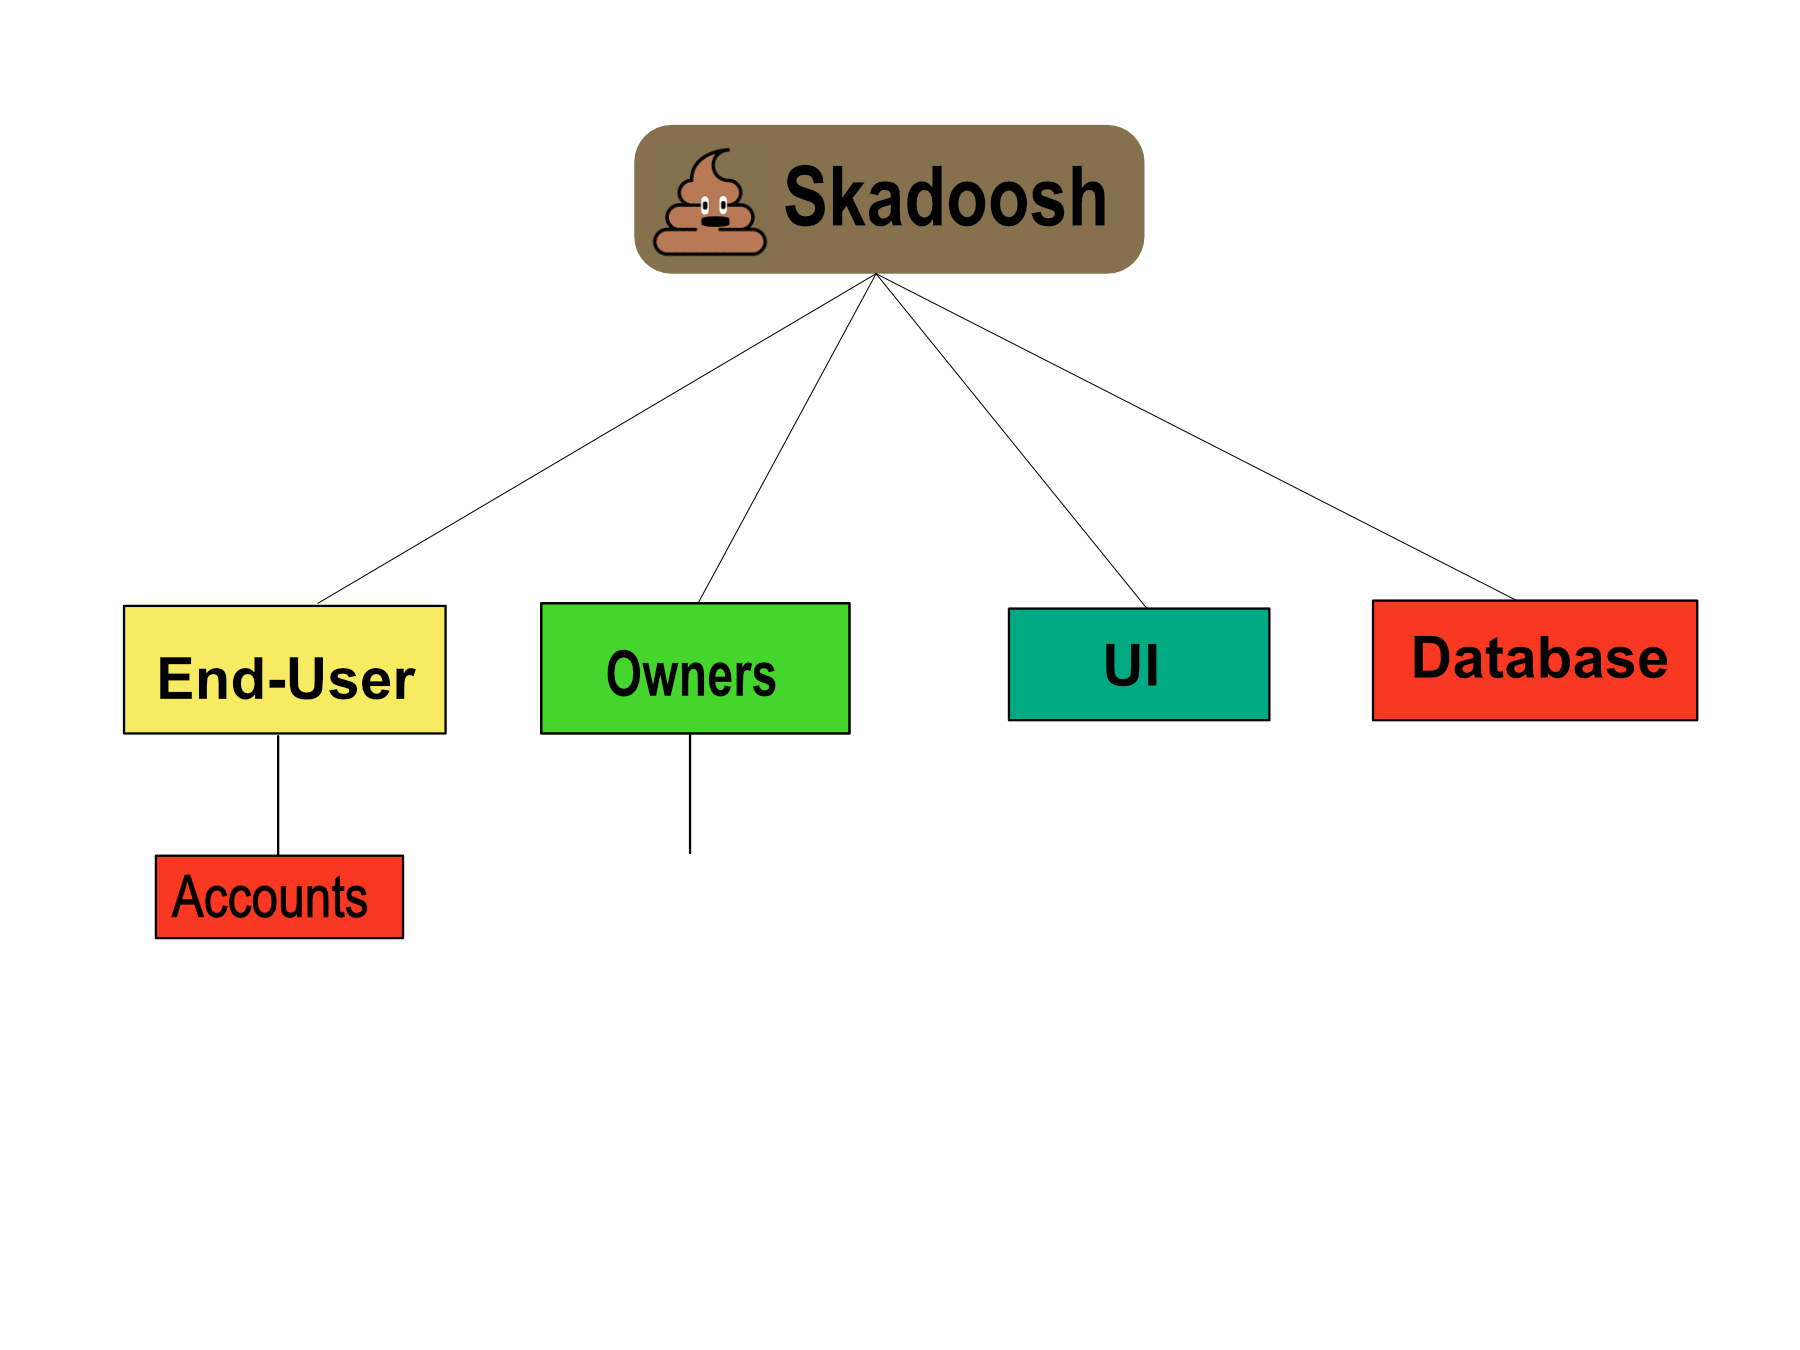
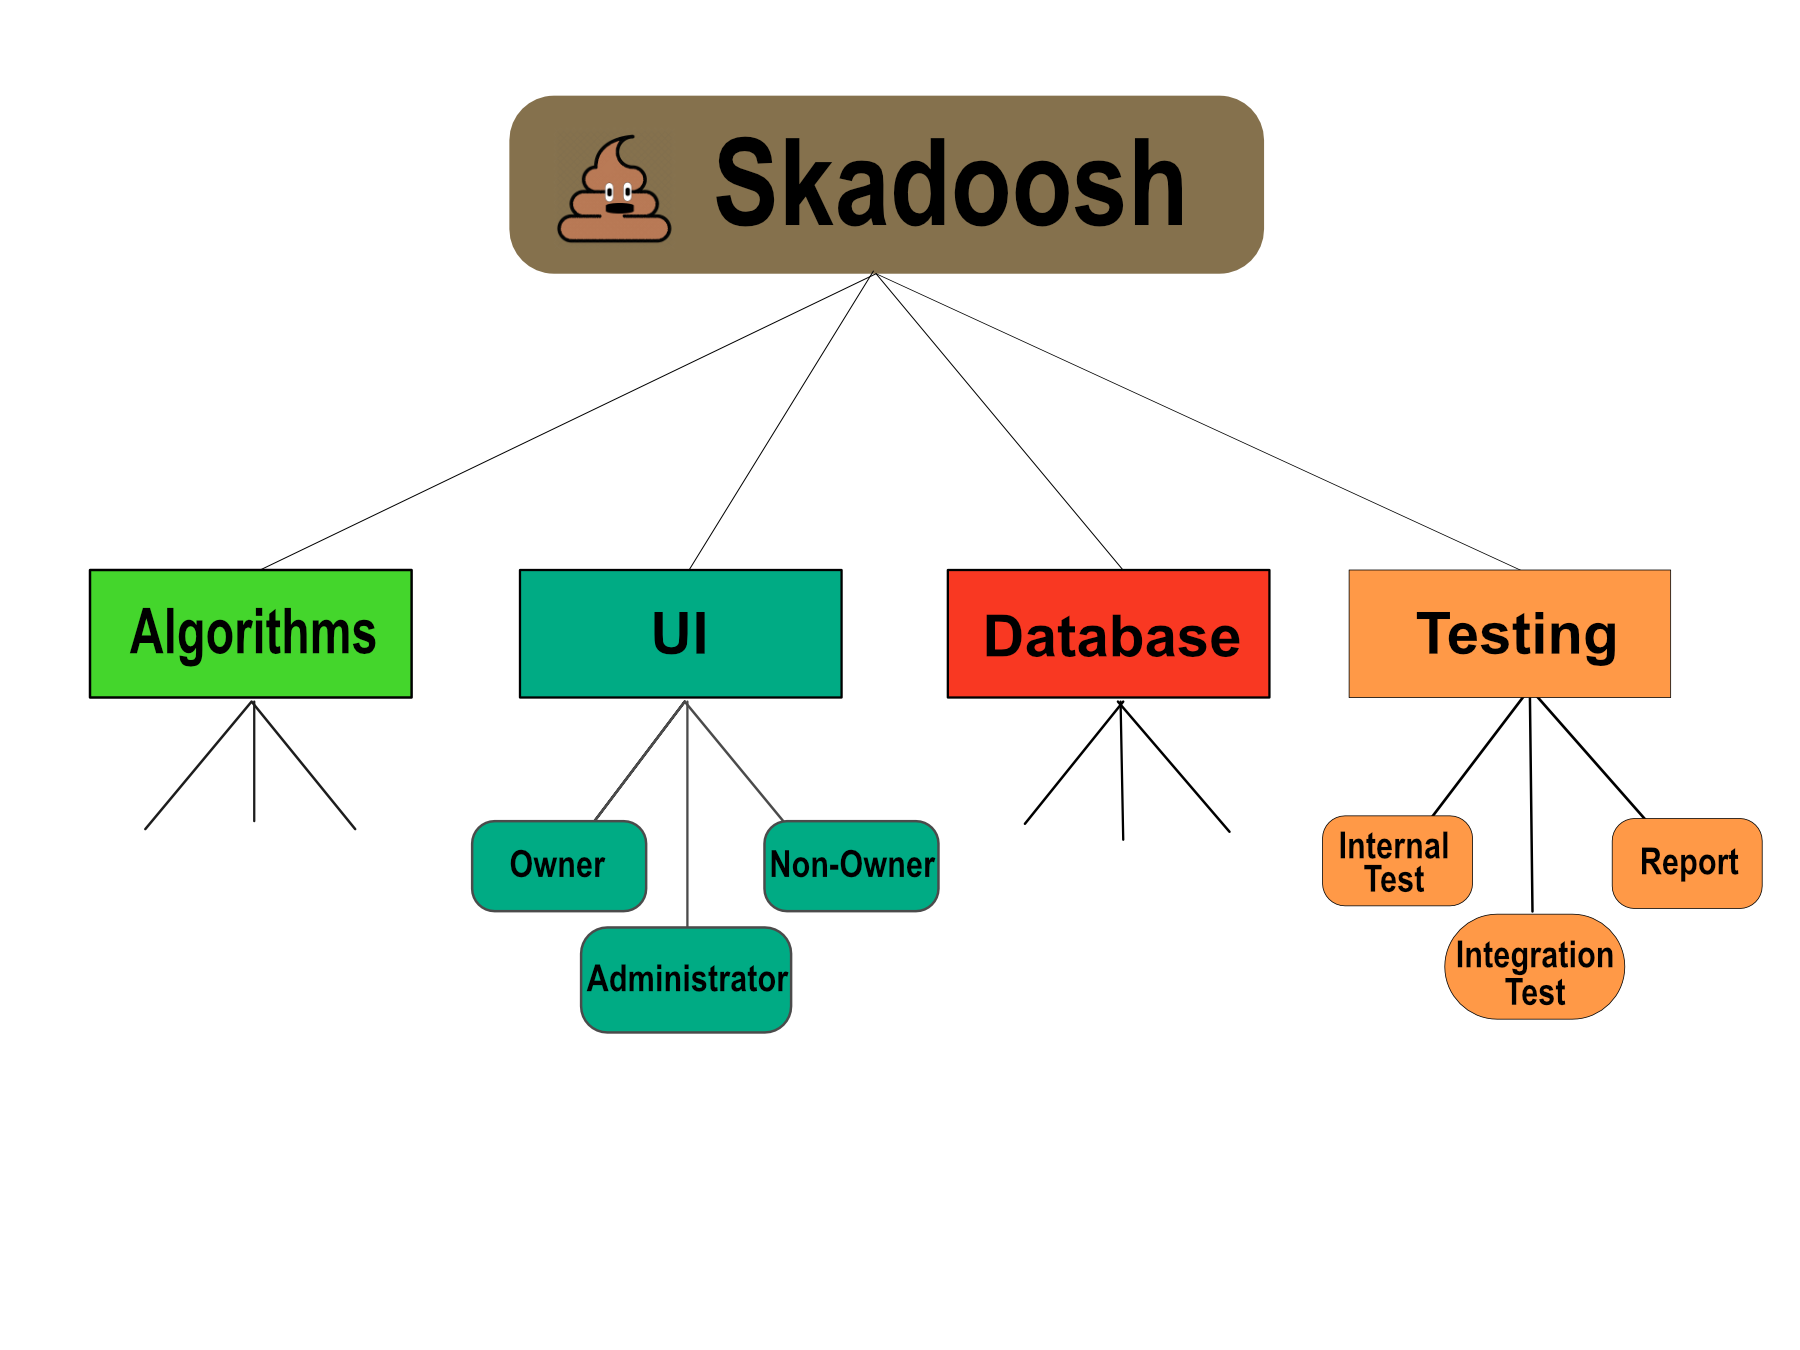
Bryan ranch (#57)
* deliverables.tsx

revamped

* presentation.tsx

added design presentation & inserted a more detailed WBS

* Update deliverables.tsx

added the admin stories

* reference.tsx

added a few references and added spacing in between

* Update presentation.tsx

* Update references.tsx

diff --git a/src/app/deliverables.tsx b/src/app/deliverables.tsx
@@ -49,6 +49,17 @@ const NON_OWNER_STORIES_WISH = [
     'See what type of amenities a bathroom contains',
 ]
 
+const ADMIN_STORIES_NEED = [
+    'Verify a business owner account',
+    'Verify an unverified restroom',
+    'Delete unverifiable restrooms',
+]
+
+const ADMIN_STORIES_WISH = [
+    'Empty ATM',
+    'Fill Here',
+]
+
 export default class Deliverables extends React.Component<{}, {}> {
     constructor(props: any) {
         super(props);
@@ -124,6 +135,33 @@ export default class Deliverables extends React.Component<{}, {}> {
                         <ul>
                         {
                             OWNER_STORIES_WISH.map(stories => (
+                                <li>{stories}</li>
+                            ))
+                        }
+                        </ul>
+                    </div>
+                    <div className="user-stories-header">
+                        Administrator
+                    </div>
+                    <div className="user-stories-sub-header">
+                        As an Administrator I need to:
+                    </div>
+                    <div className="user-stories">
+                        <ul>
+                        {
+                            ADMIN_STORIES_NEED.map(stories => (
+                                <li>{stories}</li>
+                            ))
+                        }
+                        </ul>
+                    </div>
+                    <div className="user-stories-sub-header">
+                        As an Administrator I wish to:
+                    </div>
+                    <div className="user-stories">
+                        <ul>
+                        {
+                            ADMIN_STORIES_WISH.map(stories => (
                                 <li>{stories}</li>
                             ))
                         }

diff --git a/src/app/presentation.tsx b/src/app/presentation.tsx
@@ -8,12 +8,26 @@ const Presentation = () => (
         </div>
         
         <div className="presentation-download">
-            <iframe src="https://docs.google.com/presentation/d/e/2PACX-1vRvEERreovjDoYaCJzjmx9s1stKMa5GFgYP37D68Gnhnid056bVoh4UriuunA3Sx1tQIKEIih_I5d8K/embed?start=true&loop=true&delayms=30000" frameBorder="0" style={{ width: '100%', height: '47rem' }} allowFullScreen={true} />
+            <iframe src="https://docs.google.com/presentation/d/e/2PACX-1vRvEERreovjDoYaCJzjmx9s1stKMa5GFgYP37D68Gnhnid056bVoh4UriuunA3Sx1tQIKEIih_I5d8K/embed?start=true&loop=true&delayms=30000" frameBorder="0" style={{ width: '100%', height: '45rem' }} allowFullScreen={true} />
 
             <div className="presentation-download">
-            <a href="downloadable/feasibility.pdf" download>Download Presentation</a>
+            <a href="downloadable/feasibility.pdf" download>Download Feasibility</a>
             </div>
+        </div>
+
+         <div className="presentation-header">
+            Design
          </div>
+
+         <div>
+            <iframe src="https://docs.google.com/presentation/d/e/2PACX-1vRCIVVgMZJkhnkMTCEbuBxmSSsT09vEDKTzhm36uAaWne3fSfX4uUorNlr65DDeUcT8rRiaPVTrqUNR/embed?start=true&loop=true&delayms=30000" frameBorder="0" style={{ width: '100%', height: '45rem' }} allowFullScreen={true} />
+
+             <div className="presentation-download">
+             <a href="" download>Download Design</a>
+             </div>
+         </div>
+
+         
     </div>
     
   

diff --git a/src/app/references.tsx b/src/app/references.tsx
@@ -31,6 +31,16 @@ const references = [
         Title: 'Stress Constipation: Causes and Treatments',
         Link: 'https://www.healthline.com/health/stress-constipation',
         Publisher: 'HealthLine',
+    },
+    {
+        Title: 'Study: Dirty Restrooms Lead to Lost Business',
+        Link: 'https://www.cleanlink.com/news/article.aspx?id=13366',
+        Publisher: 'CleanLink',
+    },
+    {
+        Title: '2018 ReviewTrackers Online Reviews Survey: Statistics and Trends',
+        Link: 'https://www.reviewtrackers.com/online-reviews-survey/',
+        Publisher: 'ReviewTrackers',
     }
     
 ];
@@ -49,8 +59,9 @@ const References = () => (
                         }
                         <br></br>
                         {
-                           <a target="_blank" href={reference.Link}> {reference.Publisher} </a> 
-                        }     
+                           <a target="_blank" href={reference.Link}> {reference.Publisher} </a>     
+                        }
+                       <div className="reference-space" />
                     </li>
                     
                 ))

diff --git a/src/styles/solution.css b/src/styles/solution.css
@@ -79,6 +79,7 @@
     font-size: 3rem;
     font-weight: 700;
     color: brown;
+    margin-top: 1.5rem;
 }
 .presentation-download{
     text-align: center;

diff --git a/src/styles/problem.css b/src/styles/problem.css
@@ -105,5 +105,7 @@
     font-weight: 700;
     text-align: center;
     margin-bottom: 2rem;
-
+}
+.reference-space {
+    margin-bottom: 1rem;
 }
